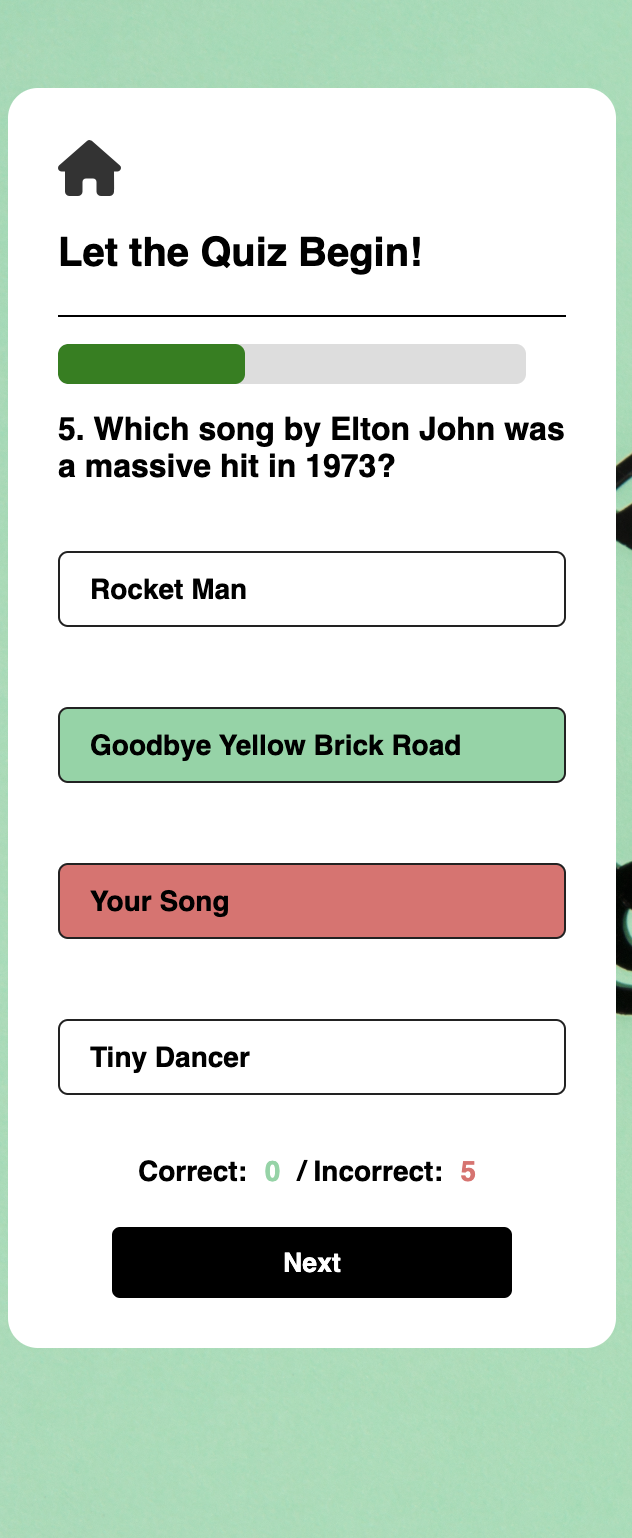
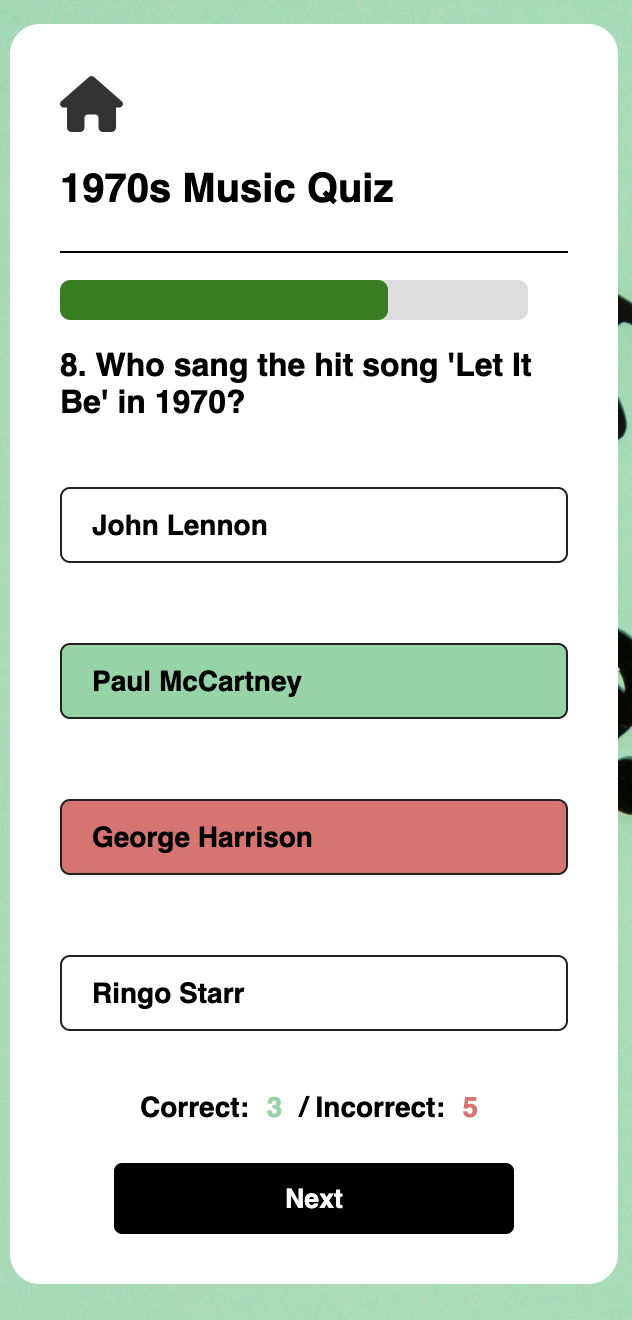
Add new images to ReadMe, update CSS progress bar green

diff --git a/assets/css/style.css b/assets/css/style.css
@@ -27,7 +27,7 @@ body {
 
 .progress-bar {
   height: 20px;
-  background-color: green;
+  background-color: #008000;
   border-radius: 5px;
   transition: width 0.3s ease-in-out;
   max-width: 100%;

diff --git a/README.md b/README.md
@@ -1,4 +1,4 @@
-# Music Quiz 
+# 1970s Music Quiz 
 
 ![Las Tacos mockup images](assets/readme-files/mockup-image.png)
 
@@ -45,7 +45,7 @@ Visit the deployed website [here](https://alvor1991.github.io/Online-Quiz/).
 
 * Offer an engaging quiz experience - create a fun and interactive quiz format that challenges users' knowledge while providing entertainment and nostalgia.
 
-* Ensure seamless navigation - design a user-friendly interface that allows effortless movement between quiz questions and other website sections.
+* Ensure seamless navigation - design a user-friendly interface that allows effortless movement between quiz questions.
 
 ### User Stories
 
@@ -53,19 +53,20 @@ Visit the deployed website [here](https://alvor1991.github.io/Online-Quiz/).
 
 * As a user, I want engaging & challenging quiz questions that provide an enjoyable experience & stimulate my curiosity about 1970s music.
 
-* As a user, I want clear instructions on how to play the quiz & understand the rules, ensuring a smooth & frustration-free experience.
+* As a user, I want clear instructions on how to play the quiz and understand the rules, ensuring a smooth and frustration-free experience.
 
 ### Color Scheme
+![Color scheme image](assets/readme-files/colour-scheme.png)
 
 The color scheme for the quiz interface features a green background wallpaper, creating a visually appealing backdrop for the quiz content. The quiz itself is presented within a white modal, providing a clean and focused environment for users to engage with the questions. To ensure readability and clarity, black text is employed within the modal, offering a stark contrast against the white background.
 
 In the feedback system, red colors (#e56d6d) are utilized to indicate incorrect scores, drawing attention to areas where users may need improvement or further review. Conversely, green colors (#83d5a3) are employed to signify correct scores, offering positive reinforcement and highlighting successful responses.
 
-Overall, this color scheme prioritizes clarity, readability, and user engagement, enhancing the overall experience of the online quiz.
+Overall, this color scheme prioritizes clarity, readability, and user engagement, enhancing the overall experience.
 
 ### Wireframes
 
-[Balsamiq](https://balsamiq.com/) was used to create a layout of the website in the planning phase. Here are my initial layout designs. As you will see in the features section, I have since added a progress bar and a score counter.  
+[Balsamiq](https://balsamiq.com/) was used to create a layout of the website in the planning phase. Here are my initial layout designs. As you will see in the features section, I have since added a progress bar and a score counter and home icon buttons. It is a simple design that will also look similar on mobile.  
 
 Page | Desktop Version
 --- | ---
@@ -86,19 +87,19 @@ Here are the main features of my website and the value they bring to users. Each
 * **Quiz Intro**
 ![Intro image](assets/readme-files/quiz-intro.png)
 
-    - The Quiz Intro feature serves as an informative gateway, offering users a glimpse into the purpose and structure of the quiz. By providing clear insights into what users can expect, it sets the stage for an engaging and rewarding experience. This introductory content not only informs users about the quiz's objectives but also instills a sense of anticipation, encouraging active participation. With engaging and purposeful messaging, the Quiz Intro feature piques users' curiosity and motivates them to delve further into the quiz content. Overall, it plays a crucial role in laying the foundation for a positive user experience, ensuring users are well-prepared and excited to embark on the quiz. 
+    - The Quiz Intro feature serves as an informative gateway, offering users a glimpse into the purpose and structure of the quiz. By providing clear insights into what users can expect, it sets the stage for an engaging and rewarding experience. This introductory content not only informs users about the quiz's objectives but also instills a sense of anticipation, encouraging active participation. With engaging and purposeful messaging, the Quiz Intro feature piques users' curiosity and motivates them to delve further into the quiz content. 
 
 * **Navigation Buttons**
 ![Nav buttons image](assets/readme-files/nav-buttons.png)
 
-    - The Navigation Buttons provide users with clear and accessible options to either start the quiz or view quiz rules. This straightforward design element ensures ease of use and navigation throughout the quiz experience. By offering intuitive choices, users can quickly progress through the quiz or seek additional information as needed, enhancing overall usability and engagement. The simplicity of the navigation buttons streamlines the user journey, minimizing barriers to entry and allowing participants to focus on the quiz content itself. 
+    - The Navigation Buttons provide users with clear and accessible options to either start the quiz or view quiz rules. This straightforward design element ensures ease of use and navigation throughout the quiz experience. By offering intuitive choices, users can quickly progress through the quiz or seek additional information as needed, enhancing overall usability and engagement.  
 
 ### Quiz Rules
 
 * **Quiz Intro**
 ![Intro image](assets/readme-files/quiz-rules.png)
 
-    - The Quiz Rules feature offers clear instructions on how the quiz works, ensuring users understand the mechanics and objectives before they begin. By providing concise and accessible guidelines, it sets expectations and helps users navigate the quiz effectively. This feature not only enhances user comprehension but also minimizes confusion and frustration, thereby optimizing the overall user experience. With straightforward explanations, users can confidently engage with the quiz, maximizing their enjoyment and learning potential..
+    - The Quiz Rules feature offers clear instructions on how the quiz works, ensuring users understand the mechanics and objectives before they begin. By providing concise and accessible guidelines, it sets expectations and helps users navigate the quiz effectively. This feature not only enhances user comprehension but also minimizes confusion and frustration, thereby optimizing the overall user experience. 
 
 ### Music Quiz
 
@@ -118,7 +119,7 @@ Here are the main features of my website and the value they bring to users. Each
 
 ### Player Score 
 
-The Player Score feature adds significant value to the overall user experience by providing personalized feedback based on the user's performance in the quiz. It not only serves as a means of gauging their success but also offers encouragement and motivation to play the quiz again. By categorizing scores into different levels such as "OK," "Good," "Great," and "Perfect," this feature effectively communicates to users where they stand relative to their peers and their own potential. Moreover, it creates a sense of achievement and progress, driving users to strive for higher scores and engage more deeply with the quiz content.
+The Player Score feature adds significant value to the overall user experience by providing personalized feedback based on the user's performance in the quiz. It not only serves as a means of gauging their success but also offers encouragement and motivation to play the quiz again. By categorizing scores into different levels such as "OK," "Good," "Great," and "Perfect," this feature effectively communicates to users where they stand relative to their peers and their own potential. Moreover, it creates a sense of achievement and progress.
 
 * **OK Score (less than 5)**
 ![OK Score image](assets/readme-files/ok-score.png)
@@ -152,7 +153,7 @@ The Player Score feature adds significant value to the overall user experience b
 ### Frameworks, Libraries and Programs Used
 
 * [Font Awesome](https://fontawesome.com/)
-    - Font Awesome was used throughout all pages to add icons to create a better visual experience for UX purposes.
+    - Font Awesome was used to add icons and create a better visual experience for UX purposes.
 
 * [GitPod](https://www.gitpod.io)
     - GitPod was used for writing code, committing, and then pushing to GitHub.
@@ -211,7 +212,7 @@ The Player Score feature adds significant value to the overall user experience b
 
 * The [W3C Markup Validator](https://validator.w3.org/), [W3C CSS Validator](https://jigsaw.w3.org/css-validator/) and [JSHint](https://jshint.com) services were used to validate all pages of the project to ensure there were no syntax errors.
 
-    - W3C Markup Validator found errors found errors regarding duplicate ID values for the home button icon. I replaced these IDs with classes
+    - W3C Markup Validator found errors found errors regarding duplicate ID values for the home button icon. I replaced these IDs with classes.
     
     - W3C CSS Validator found no errors or warnings on my CSS.
 
@@ -274,7 +275,7 @@ Click Answer | Clicking an answer will highlight the correct (green) and incorre
 Post click answer | Once an answer is selected, all other answers will be disabled and a Next button will appear.| PASS
 Next Button | Clicking on the Next button will bring the user to the next question.| PASS
 Progress Bar | The progress bar updates as each question is completed.| PASS
-Score Counter | The score counter updates as each question is completed| PASS
+Score Counter | The score counter updates as each question is completed.| PASS
 Home Icon | Clicking on the home icon button will bring the user back to the Welcome Modal.| PASS
 Title Change | Once user moves to question 2, the quiz title will change from 'Let the Quiz Begin!' to 'Music Quiz'.| PASS
 
